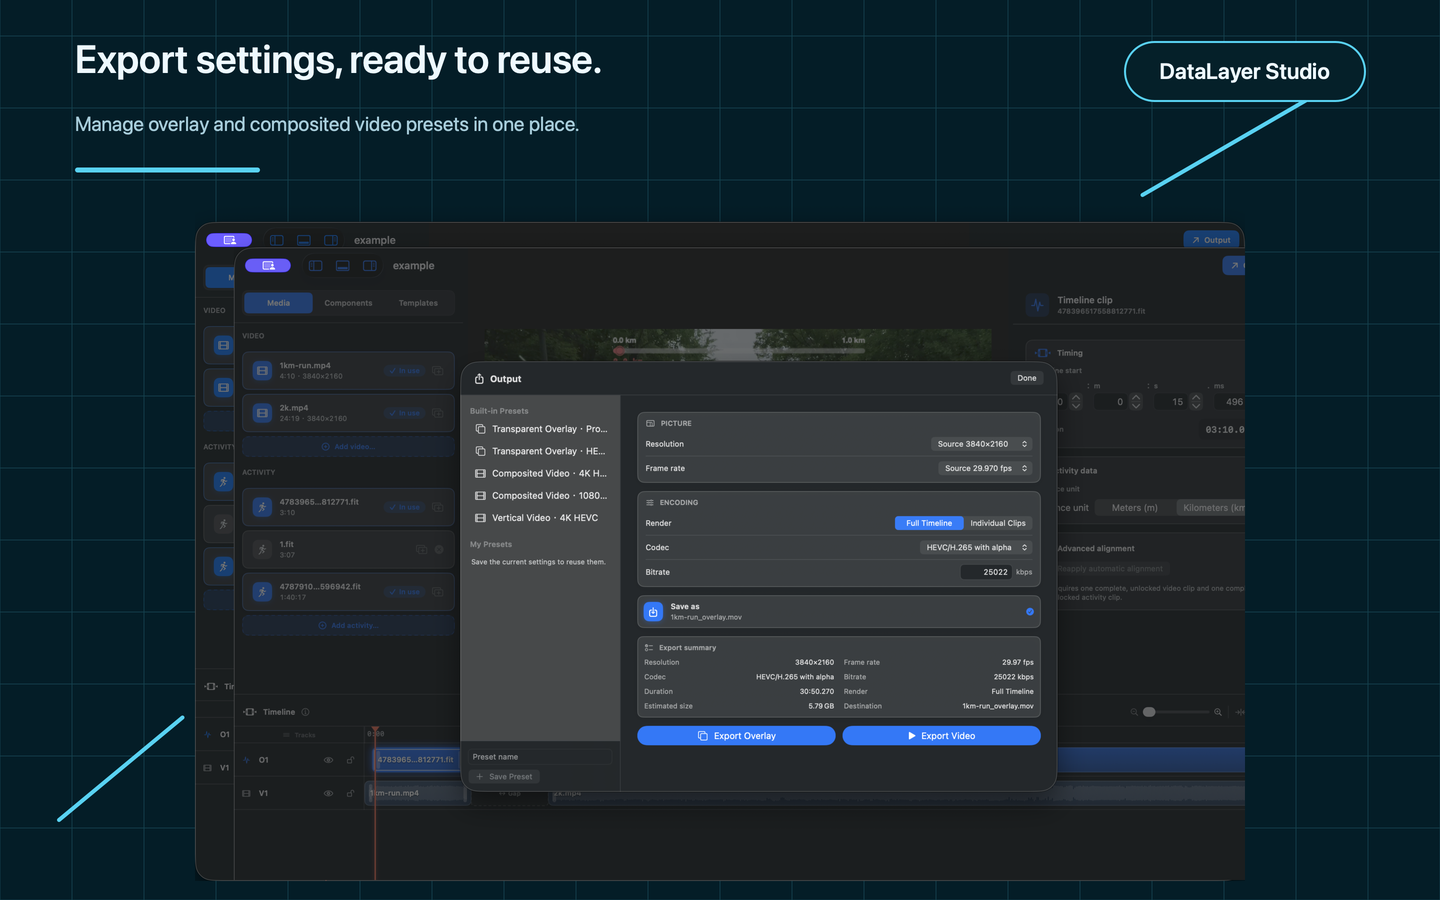
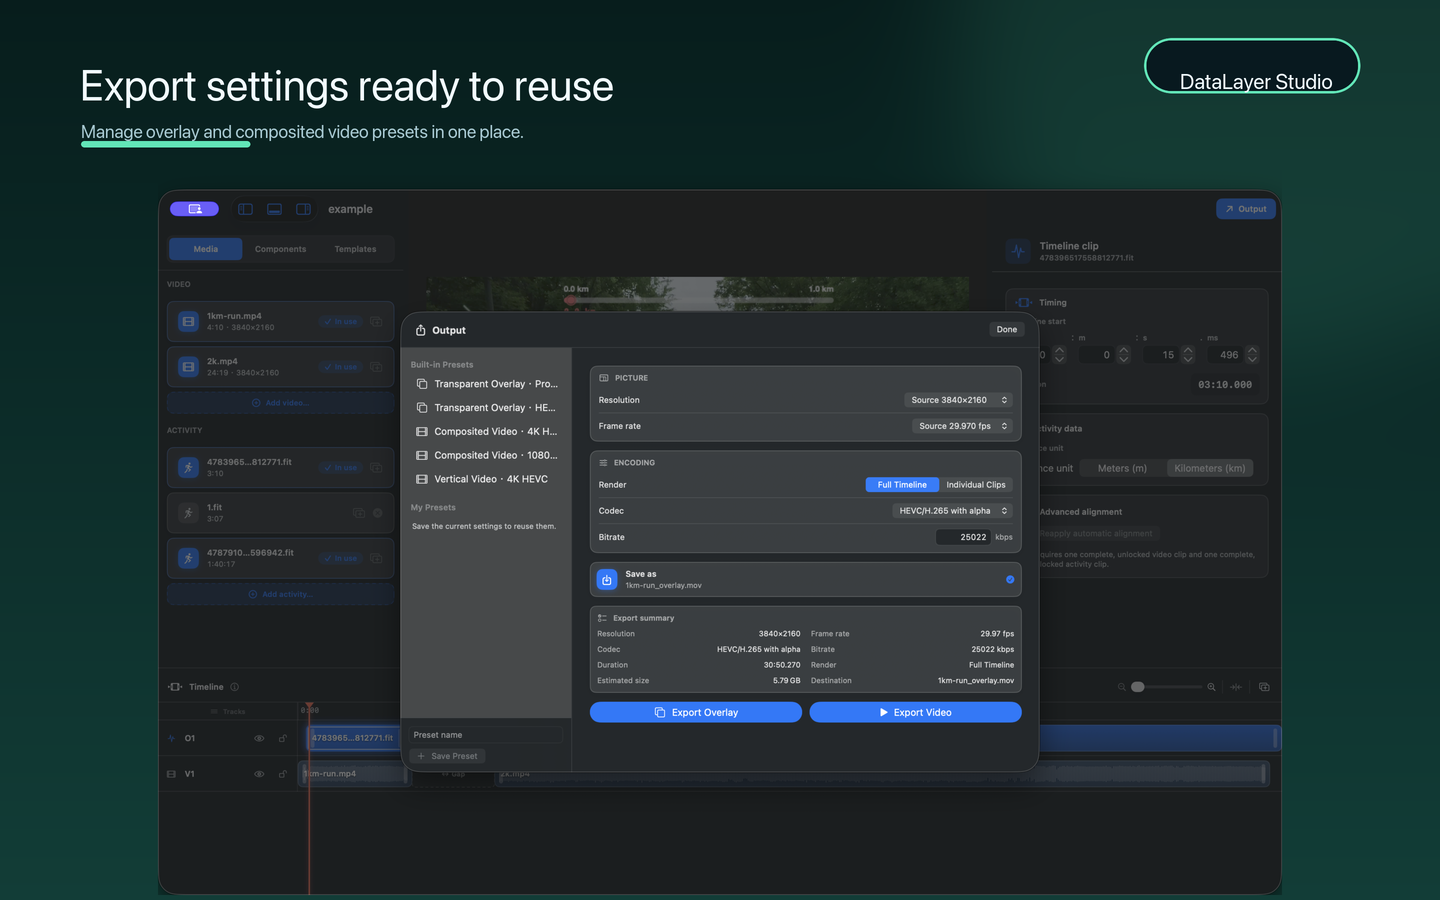
问题：零点三点三商店截图窗口错位｜修复：按透明边界居中并重做三色画廊版式

diff --git a/assets/appstore/v0.3.3/README.md b/assets/appstore/v0.3.3/README.md
@@ -9,4 +9,4 @@
 - 语言：`en-US`、`ja`、`zh-Hans`、`zh-Hant`
 - 原始截图：`assets/screenshots_raw/v0.3.3/`
 
-截图来自当前 `main` 最新本地 App 和 `example.dlsproj`，全部固定在时间码 `00:00:21:26`。截图前已确认视频、距离、配速、心率、步频、热量、天气和日期时间数据完整显示且无异常。版式沿用 `v0.3.2` 的深色网格、青色强调线与顶部品牌胶囊；同时提供 `desktop`（1440 × 900）和 `desktop@2x`（2880 × 1800），App Store Connect 仅上传 `desktop@2x`。
+截图来自当前 `main` 最新本地 App 和 `example.dlsproj`，全部固定在时间码 `00:00:21:26`。截图前已确认视频、距离、配速、心率、步频、热量、天气和日期时间数据完整显示且无异常。版式重做为三色渐变背景、大标题与居中放大的完整 App 窗口，不复用旧版窗口坐标；同时提供 `desktop`（1440 × 900）和 `desktop@2x`（2880 × 1800），App Store Connect 仅上传 `desktop@2x`。
